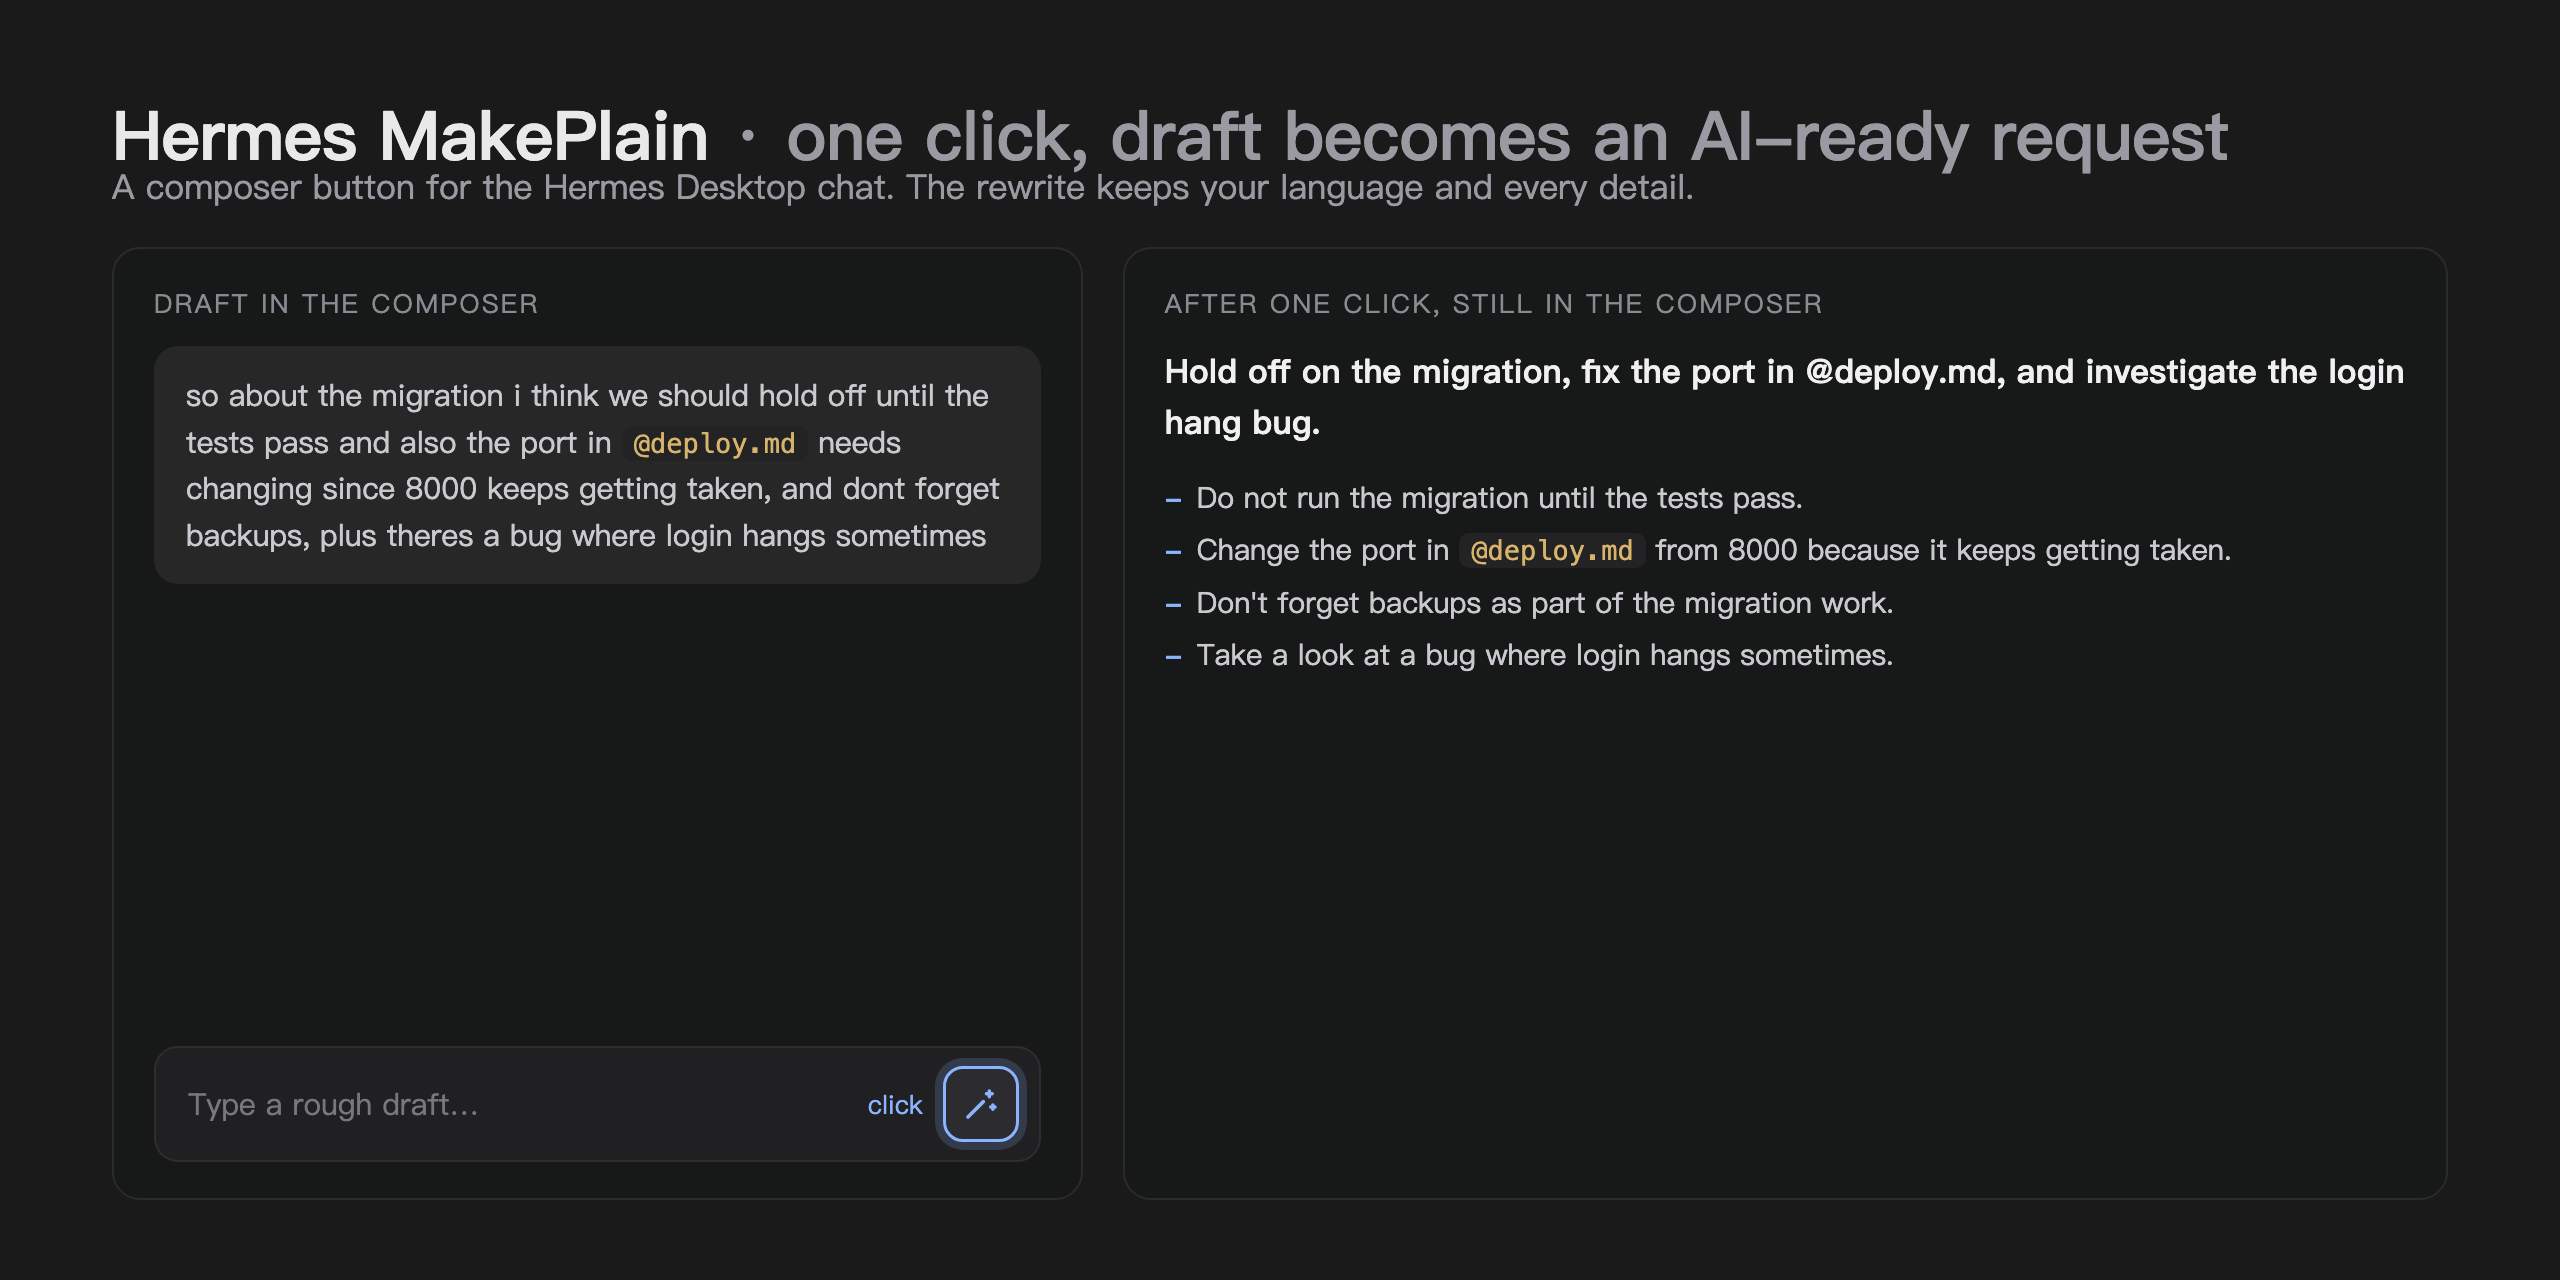
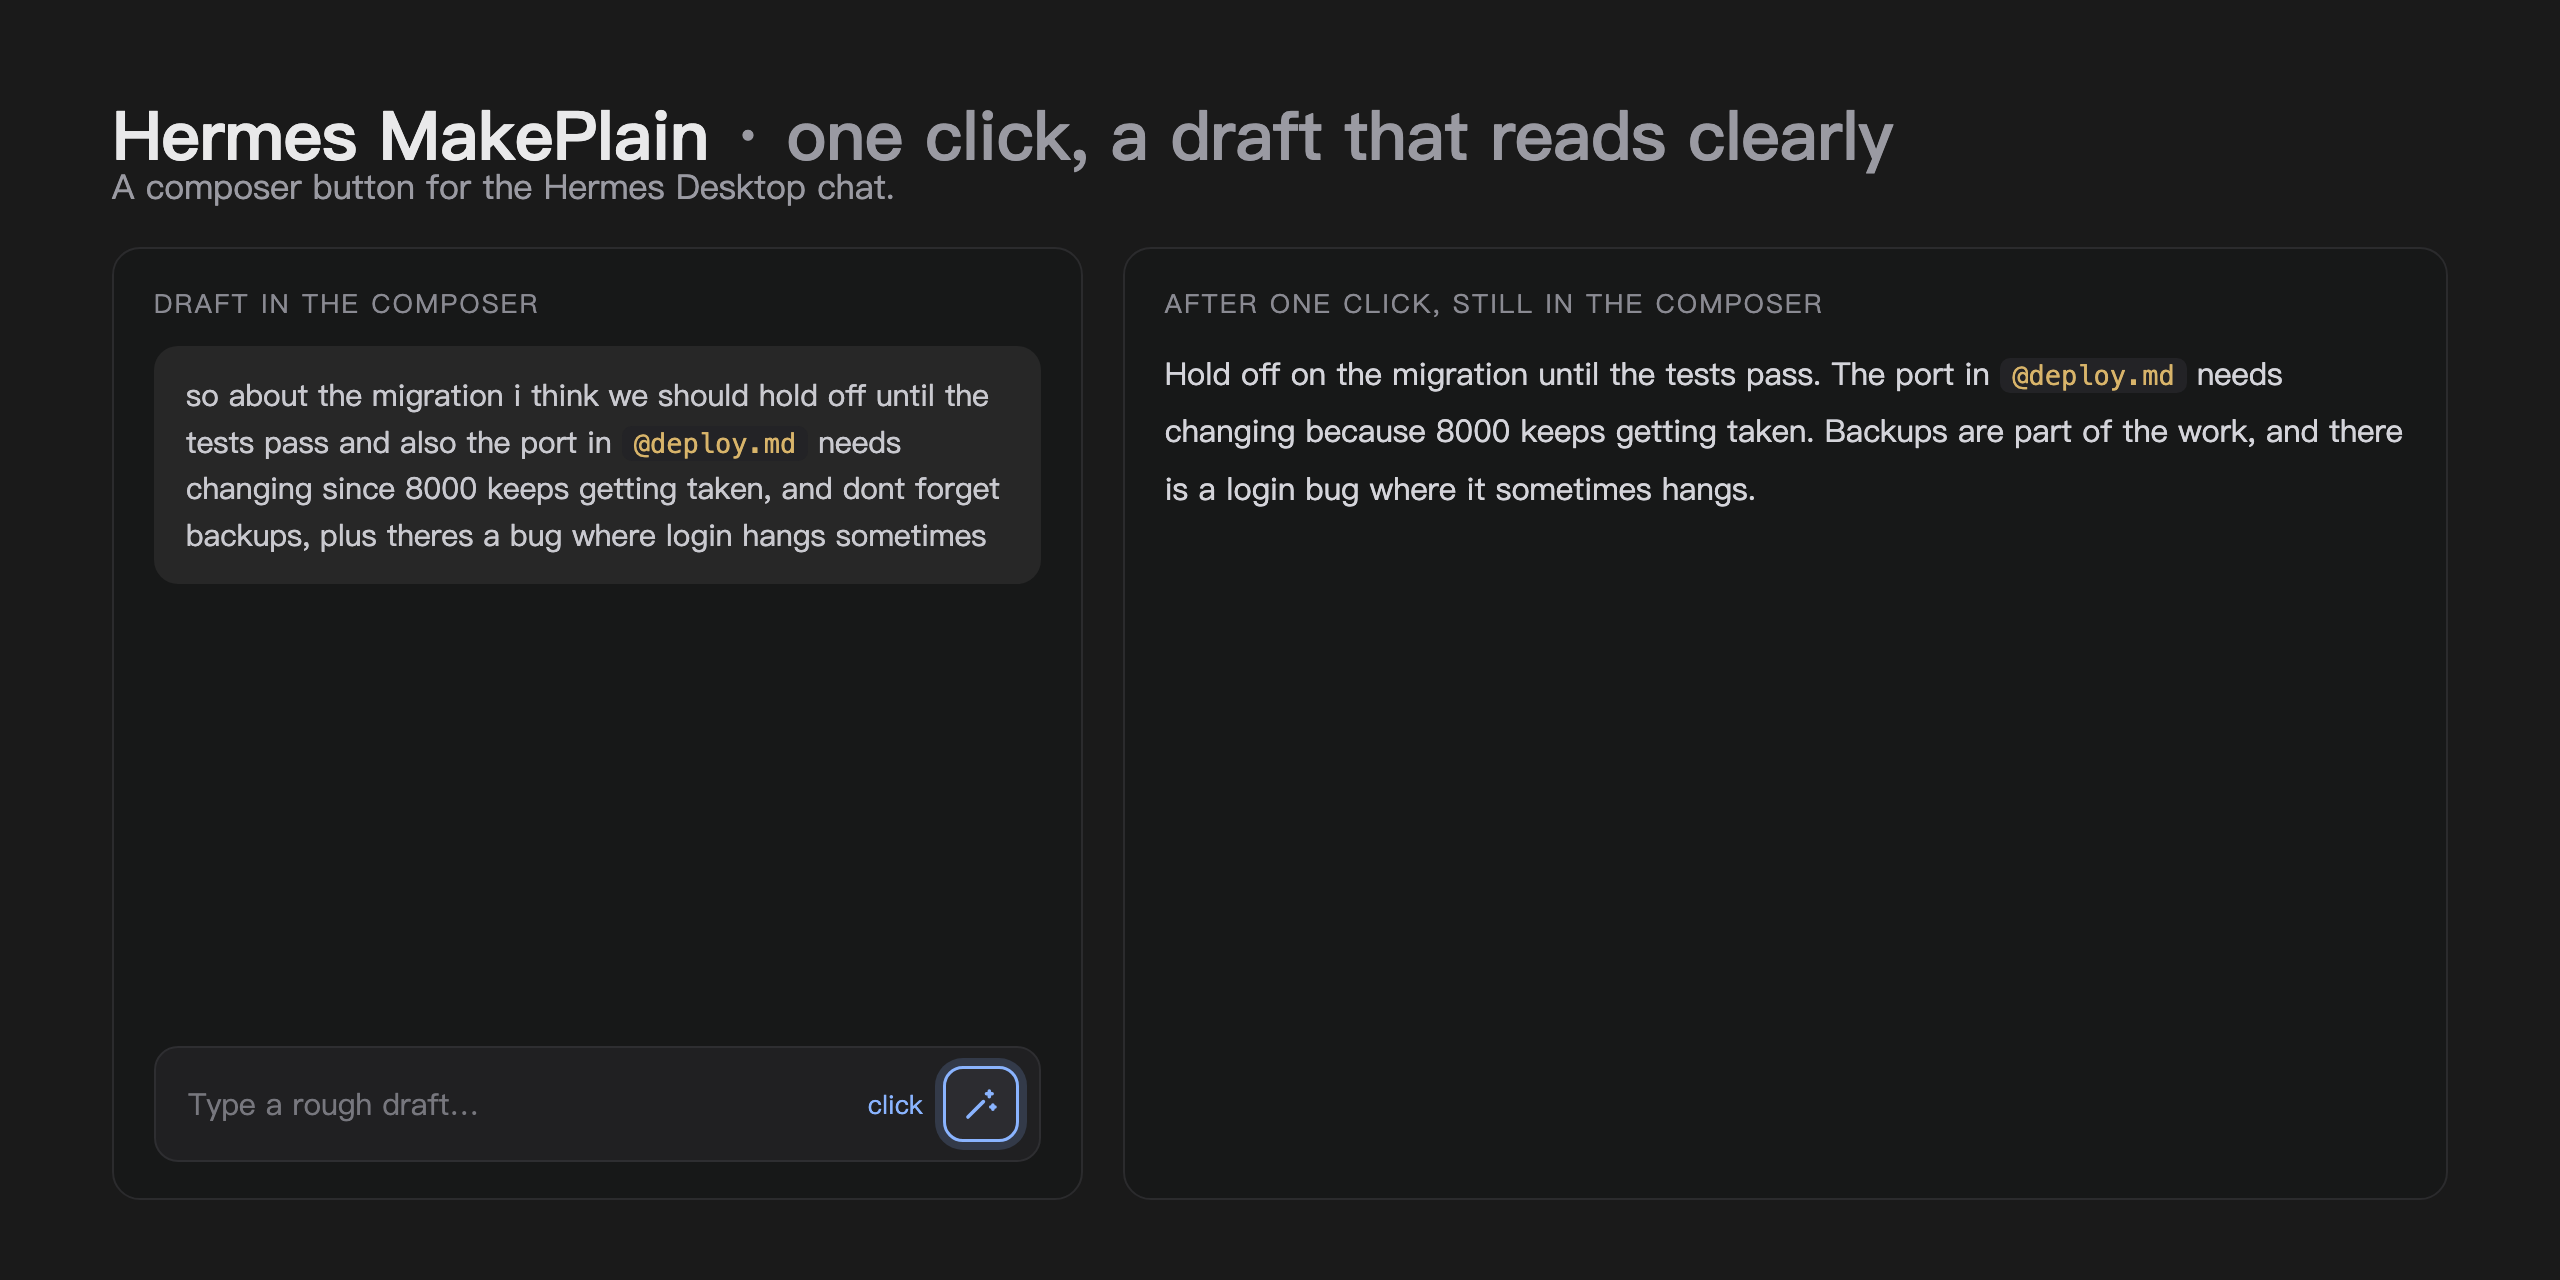
v0.3.0: simplify the rewrite prompt to readability with meaning kept

diff --git a/desktop/plugin.js b/desktop/plugin.js
@@ -3,8 +3,8 @@
  *
  * One button in the composer actions row (right side of the input, next to the
  * model pill). Clicking it reads the current draft through the official
- * host.composer draft API, rewrites it into an AI-readable message (a goal line
- * plus one request per line) via a single stateless llm.oneshot call on the cheap auxiliary route
+ * host.composer draft API, rewrites it into a clearer version that keeps the
+ * original meaning via a single stateless llm.oneshot call on the cheap auxiliary route
  * (task: title_generation), and replaces the draft in place. The message is
  * never sent, no app markup is touched, and nothing outlives the plugin: the
  * only teardown state is the disposed guard below.
@@ -15,7 +15,7 @@ import { useState } from 'react'
 import { jsx, jsxs } from 'react/jsx-runtime'
 
 const ID = 'hermes-make-plain'
-const VERSION = '0.2.0'
+const VERSION = '0.3.0'
 // Auxiliary routing key: lands on the configured auxiliary.title_generation
 // model (a cheap one), never the session's main model.
 const ONESHOT_TASK = 'title_generation'
@@ -23,17 +23,10 @@ const ONESHOT_TIMEOUT_MS = 60000
 const ONESHOT_MAX_TOKENS = 8192
 
 const INSTRUCTIONS = [
-  'You optimize a draft into a message an AI agent can execute without asking follow-up questions. Rewrite the text below into that form; return only the rewritten text.',
-  'Rules:',
-  "- Same language as the draft: Chinese stays Chinese, English stays English. Never translate.",
-  '- Preserve every concrete detail exactly as written: names, numbers, versions, ports, paths, file names, URLs, @-references, /commands, code and inline code. Never drop an item and never invent one.',
-  '- Lead with one short sentence that states the goal.',
-  '- Then give the details the agent needs, one item per line, each starting with "- ". Only items the draft actually contains.',
-  '- Make every request explicit and actionable: what to do, to what, and any constraint, preference, deadline or acceptance condition the draft states. Never invent requirements.',
-  '- Keep the decisions and context the draft gives; drop greetings, filler, hedging and repeated thoughts.',
-  '- Do not answer the draft, do not comment on it, do not add facts or suggestions.',
-  '- Plain text only: no markdown headings, no bold, no code fence around the whole answer.',
-  '- No preamble, no explanation, no surrounding quotes.'
+  'Rewrite the text below so it is easy to read. Keep the original meaning exactly: nothing added, nothing dropped. Return only the rewritten text.',
+  '- Same language as the draft. Never translate.',
+  '- Leave names, numbers, versions, ports, paths, file names, URLs, @-references, /commands and code exactly as written.',
+  '- Plain text: no headings, no code fence around the answer.'
 ].join('\n')
 
 // Unload guard: a rewrite already in flight must not touch the composer after
@@ -45,17 +38,17 @@ let inFlight = false
 
 const LOCALES = {
   en: {
-    tip: 'Rewrite this draft into an AI-ready request',
+    tip: 'Rewrite this draft so it reads clearly',
     working: 'Rewriting…',
     emptyDraft: 'The input box is empty. Write a draft first.',
-    done: 'Draft replaced with the AI-ready version.',
+    done: 'Draft replaced with the rewritten text.',
     emptyOutput: 'The model returned nothing; the draft is unchanged.',
     draftChanged: 'You edited the draft while it was rewriting, so your text was kept.',
     failed: 'Rewrite failed; the draft is unchanged.',
     replaceFailed: 'Rewritten, but writing it back to the input box failed.'
   },
   zh: {
-    tip: '把草稿整理成 AI 易读的要求',
+    tip: '把草稿优化得更易读',
     working: '正在优化…',
     emptyDraft: '输入框还是空的，先写点草稿。',
     done: '已替换为整理后的文字。',

diff --git a/assets/mock/cover-en.html b/assets/mock/cover-en.html
@@ -39,7 +39,7 @@
     line-height: 1.55;
     color: #c9c9cf;
   }
-  .goal { font-size: 16.5px; line-height: 1.55; color: #f0f0f2; font-weight: 600; }
+  .prose { font-size: 15.5px; line-height: 1.85; color: #d4d4da; }
   .items { font-size: 14.5px; line-height: 1.8; color: #c9c9cf; }
   .items li { list-style: none; padding-left: 16px; position: relative; }
   .items li::before { content: "-"; position: absolute; left: 0; color: #8ab4ff; font-weight: 700; }
@@ -77,8 +77,8 @@
 </head>
 <body>
   <div>
-    <div class="title">Hermes MakePlain <span>· one click, draft becomes an AI-ready request</span></div>
-    <div class="sub">A composer button for the Hermes Desktop chat. The rewrite keeps your language and every detail.</div>
+    <div class="title">Hermes MakePlain <span>· one click, a draft that reads clearly</span></div>
+    <div class="sub">A composer button for the Hermes Desktop chat.</div>
   </div>
   <div class="row">
     <div class="win left">
@@ -98,8 +98,7 @@
     </div>
     <div class="win right">
       <div class="cap">After one click, still in the composer</div>
-      <div class="goal">Hold off on the migration, fix the port in @deploy.md, and investigate the login hang bug.</div>
-      <ul class="items"><li>Do not run the migration until the tests pass.</li><li>Change the port in <code>@deploy.md</code> from 8000 because it keeps getting taken.</li><li>Don't forget backups as part of the migration work.</li><li>Take a look at a bug where login hangs sometimes.</li></ul>
+      <div class="prose">Hold off on the migration until the tests pass. The port in <code>@deploy.md</code> needs changing because 8000 keeps getting taken. Backups are part of the work, and there is a login bug where it sometimes hangs.</div>
     </div>
   </div>
 </body>

diff --git a/assets/mock/cover-zh.html b/assets/mock/cover-zh.html
@@ -39,7 +39,7 @@
     line-height: 1.55;
     color: #c9c9cf;
   }
-  .goal { font-size: 16.5px; line-height: 1.55; color: #f0f0f2; font-weight: 600; }
+  .prose { font-size: 15.5px; line-height: 1.85; color: #d4d4da; }
   .items { font-size: 14.5px; line-height: 1.8; color: #c9c9cf; }
   .items li { list-style: none; padding-left: 16px; position: relative; }
   .items li::before { content: "-"; position: absolute; left: 0; color: #8ab4ff; font-weight: 700; }
@@ -77,8 +77,8 @@
 </head>
 <body>
   <div>
-    <div class="title">Hermes MakePlain <span>· 一键把草稿变成 AI 能直接执行的要求</span></div>
-    <div class="sub">Hermes 桌面聊天的输入框按钮。语言跟着草稿走，细节一条不丢。</div>
+    <div class="title">Hermes MakePlain <span>· 一键把草稿整理得清清楚楚</span></div>
+    <div class="sub">Hermes 桌面聊天的输入框按钮。</div>
   </div>
   <div class="row">
     <div class="win left">
@@ -98,8 +98,7 @@
     </div>
     <div class="win right">
       <div class="cap">点一下之后，还留在输入框里</div>
-      <div class="goal">等测试通过再迁移，改掉 @deploy.md 里的端口，排查登录卡住的问题。</div>
-      <ul class="items"><li>测试通过之前不要执行迁移。</li><li><code>@deploy.md</code> 里的端口 8000 老被占用，要换掉。</li><li>迁移相关的改动记得先备份。</li><li>排查登录有时卡住的 bug。</li></ul>
+      <div class="prose">等测试通过再动手迁移。<code>@deploy.md</code> 里的端口 8000 老被占用，需要换掉。迁移要记得先做备份。另外登录有时候会卡住，这个问题也看一下。</div>
     </div>
   </div>
 </body>

diff --git a/README.md b/README.md
@@ -3,22 +3,21 @@
 </p>
 
 <p align="center">
-  <img src="assets/cover-en.png" alt="Hermes MakePlain · one click, draft becomes an AI-ready request" width="100%">
+  <img src="assets/cover-en.png" alt="Hermes MakePlain · one click, a draft that reads clearly" width="100%">
 </p>
 
 <h1 align="center">Hermes MakePlain</h1>
 
 <p align="center">
-  <em>One click turns your rough draft into a message an AI can act on:
-  one goal line, then one request per line.</em>
+  <em>One click makes your rough draft easy to read:
+  same meaning, same language, nothing lost.</em>
 </p>
 
 ## What it does
 
 - Adds a wand button to the right of the chat input box in Hermes Desktop.
-- Click it to replace your rough draft in place with a clean, AI-ready rewrite. The message is not sent; the chat stays untouched.
-- The output format is made for AI agents.
-- The rewrite stays in the language you wrote in, and keeps every concrete detail exactly as written: names, numbers, versions, ports, paths, file names, URLs, `@`-references, `/`-commands and code.
+- Click it to replace your rough draft in place with a clean rewrite that reads clearly. The message is not sent; the chat stays untouched.
+- The rewrite keeps your original meaning, stays in the language you wrote in, and keeps every concrete detail exactly as written: names, numbers, versions, ports, paths, file names, URLs, `@`-references, `/`-commands and code.
 - You can see what it is doing: the button spins while the rewrite is in flight, and an empty box is rejected before any work starts.
 
 ## How it works

diff --git a/README.zh-CN.md b/README.zh-CN.md
@@ -3,22 +3,21 @@
 </p>
 
 <p align="center">
-  <img src="assets/cover-zh.png" alt="Hermes MakePlain · 一键把草稿变成 AI 能直接执行的要求" width="100%">
+  <img src="assets/cover-zh.png" alt="Hermes MakePlain · 一键把草稿整理得清清楚楚" width="100%">
 </p>
 
 <h1 align="center">Hermes MakePlain</h1>
 
 <p align="center">
-  <em>一键把草稿整理成 AI 能直接执行的文本：
-  一句目标，然后逐条列出要求。</em>
+  <em>一键把草稿整理得清清楚楚：
+  意思不变，语言不变，细节不丢。</em>
 </p>
 
 ## 它做什么
 
 - 在 Hermes 桌面聊天的输入框右侧加一个魔杖按钮。
-- 点一下，就地把草稿替换成干净、AI 易读的版本。消息不发送，对话不被改动。
-- 输出格式专为 AI 智能体设计。
-- 重写保持草稿原有语言，细节都原样保留：名字、数字、版本、端口、路径、文件名、URL、`@` 引用、`/` 命令、代码和行内代码。
+- 点一下，就地把草稿替换成干净、更好读的版本。消息不发送，对话不被改动。
+- 重写不改变你的意思，保持草稿原有语言，细节都原样保留：名字、数字、版本、端口、路径、文件名、URL、`@` 引用、`/` 命令、代码和行内代码。
 - 做了什么一眼可见：重写进行中按钮会转圈，输入框为空会在开始前拦下。
 
 ## 工作原理

diff --git a/CHANGELOG.md b/CHANGELOG.md
@@ -1,5 +1,10 @@
 # Changelog
 
+## 0.3.0 (2026-11-06)
+
+- The rewrite now optimizes for readability only: the prompt is stripped down to meaning-preserving rules, so the output no longer forces a goal line and per-item list.
+- Tooltip copy follows: the button offers a clearer rewrite, not an AI-ready request.
+
 ## 0.2.0 (2026-11-06)
 
 - Renamed to hermes-make-plain; display name Hermes MakePlain.
